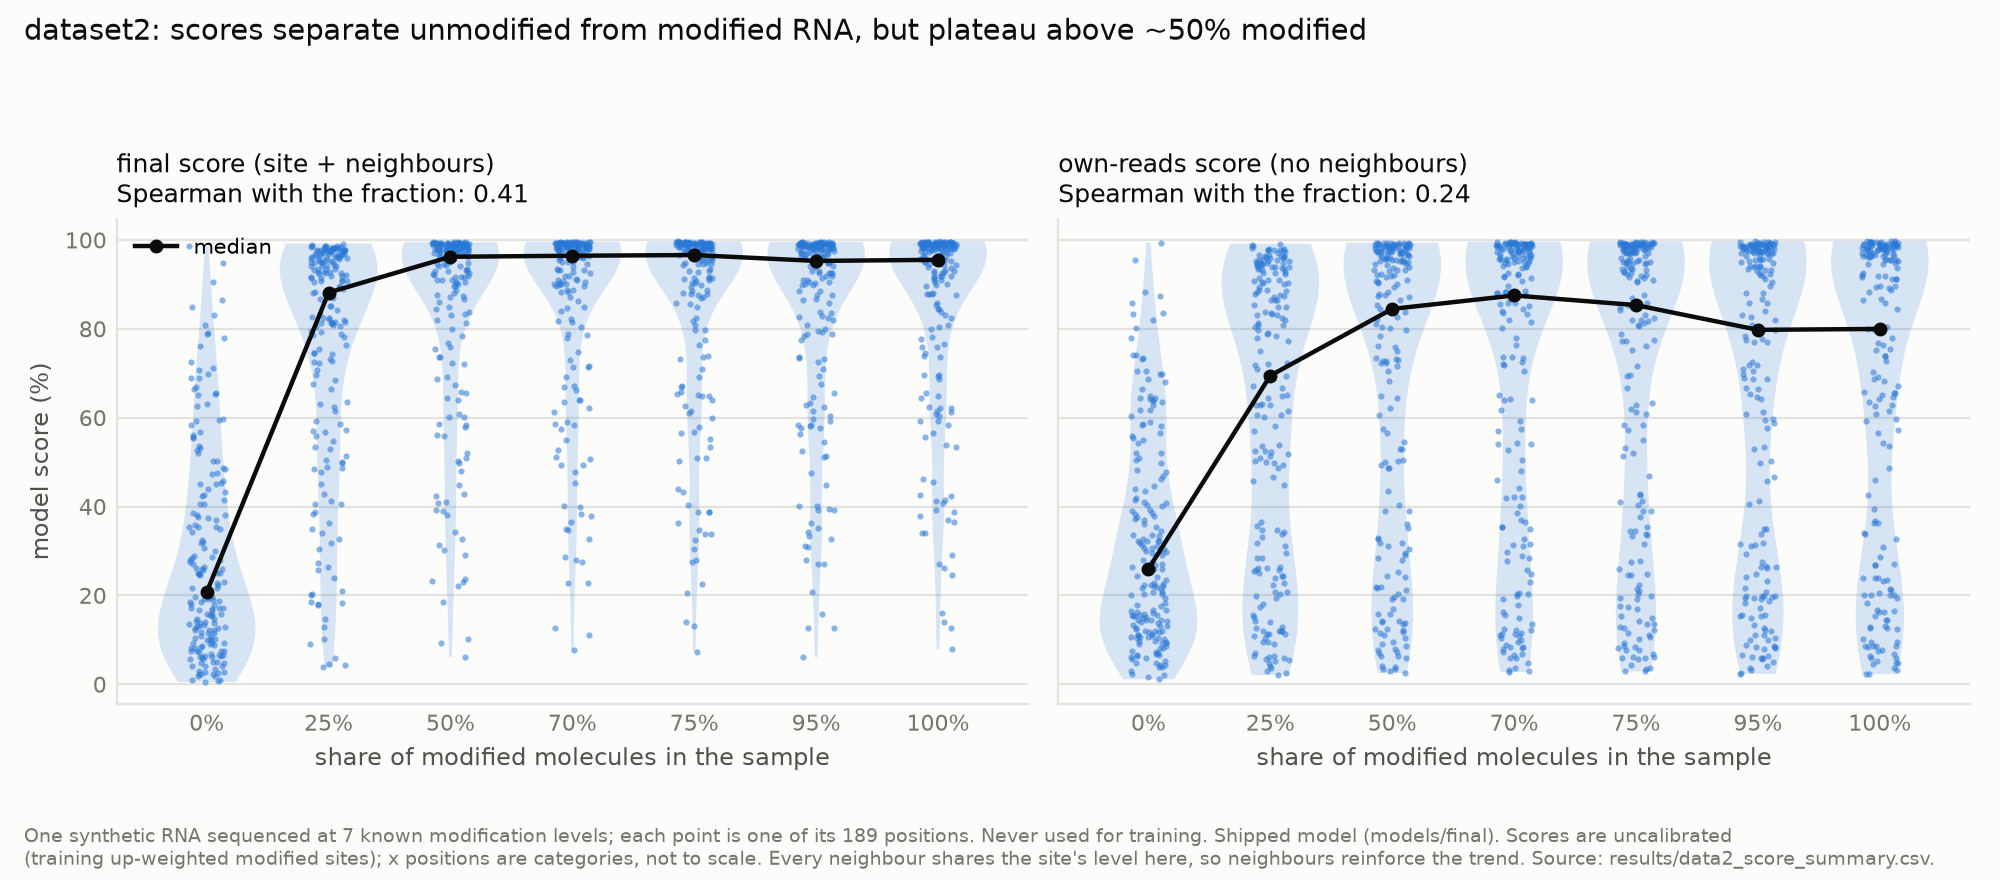
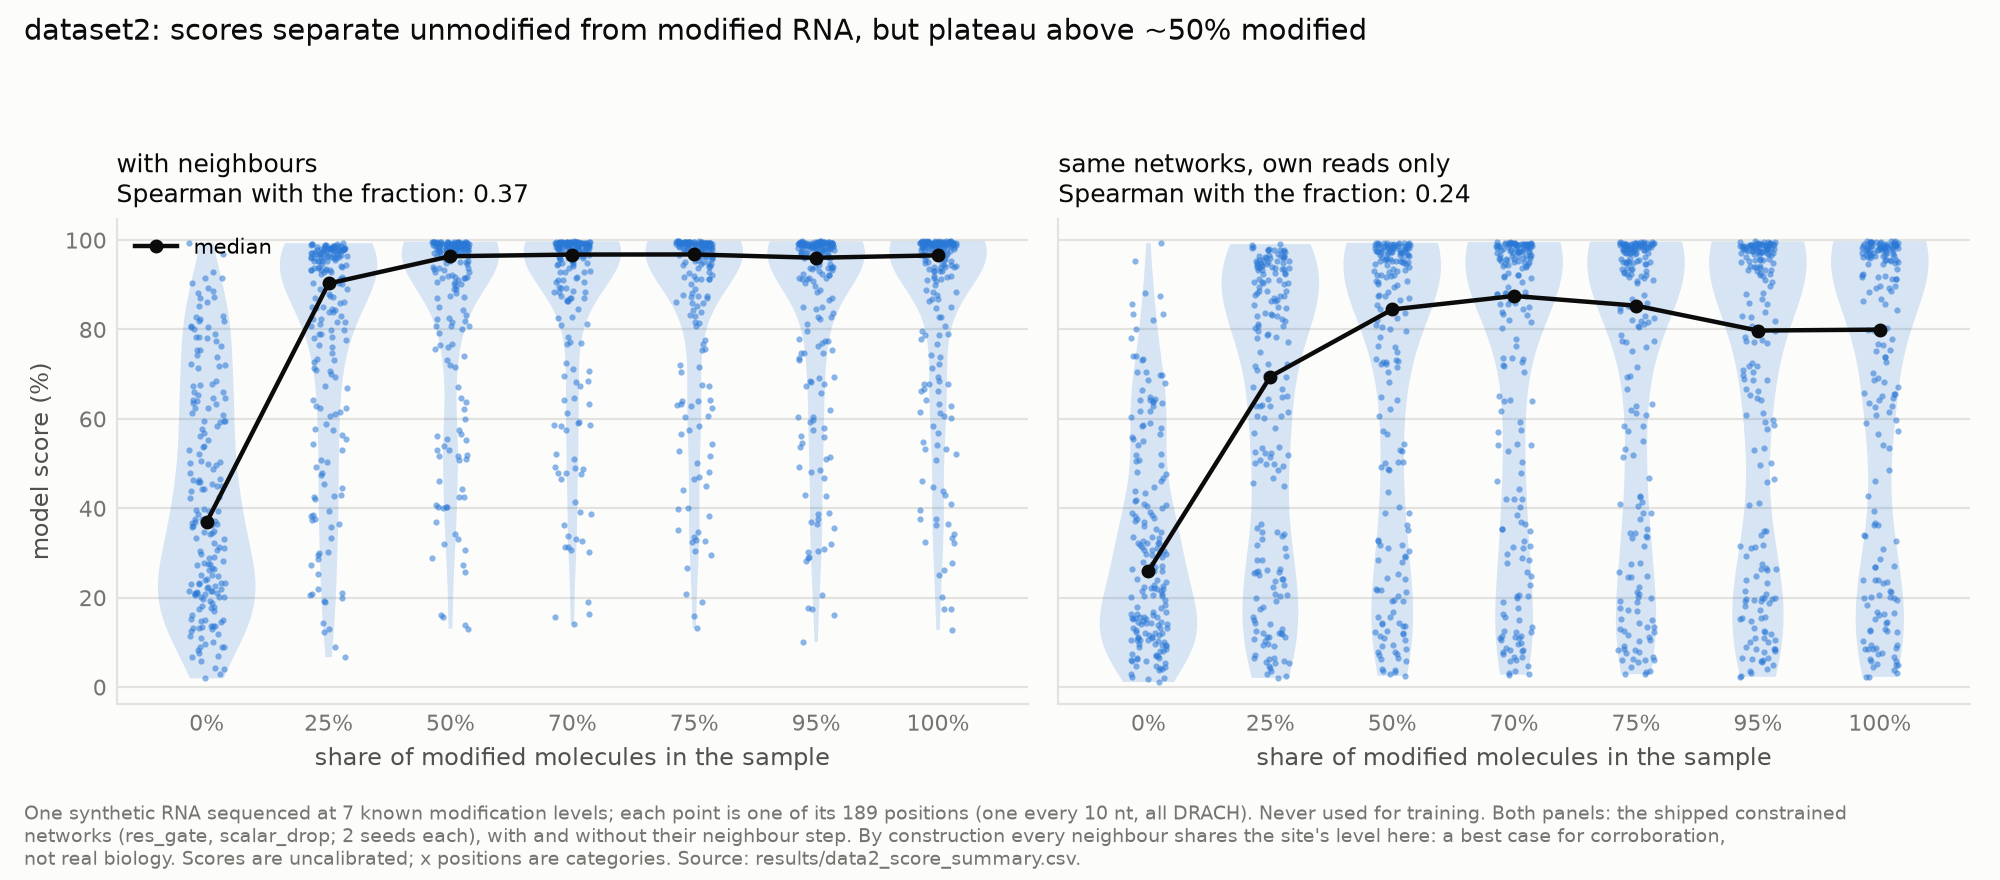
fig_data2_fractions: like-for-like (same constrained networks with vs without neighbours); why neighbours help in synthetic RNA, and the limits

diff --git a/analysis/newdata/data2_scores.py b/analysis/newdata/data2_scores.py
@@ -59,21 +59,27 @@ def main() -> None:
     out = out.merge(info, on=["transcript_id", "transcript_position"]).rename(columns={"label": "fraction"})
     own_cols = [c for c in out.columns if c.startswith("own_")]
     out["own"] = out[own_cols].mean(axis=1)
+    # Like for like: the SAME networks (the constrained designs, which have a separate
+    # read-only score) with their neighbour step. The full ensemble also averages in the
+    # two-head networks, which have no read-only score to compare against.
+    out["with_neighbours"] = out[[c.replace("own_", "raw_") for c in own_cols]].mean(axis=1)
     CACHE.parent.mkdir(parents=True, exist_ok=True)
     out.to_csv(CACHE, index=False)
 
-    summary = (out.assign(final_pct=100 * sigmoid(out.score_raw), own_pct=100 * sigmoid(out.own))
+    summary = (out.assign(final_pct=100 * sigmoid(out.with_neighbours), own_pct=100 * sigmoid(out.own))
                .groupby("fraction")
                .agg(sites=("score_raw", "size"), median_reads=("n_reads", "median"),
                     final_median=("final_pct", "median"), final_q25=("final_pct", lambda v: v.quantile(.25)),
                     final_q75=("final_pct", lambda v: v.quantile(.75)),
                     own_median=("own_pct", "median"), own_q25=("own_pct", lambda v: v.quantile(.25)),
                     own_q75=("own_pct", lambda v: v.quantile(.75))).reset_index())
-    rho_final = spearmanr(out.fraction, out.score_raw).statistic
+    rho_final = spearmanr(out.fraction, out.with_neighbours).statistic
     rho_own = spearmanr(out.fraction, out.own).statistic
+    rho_ensemble = spearmanr(out.fraction, out.score_raw).statistic
     summary.to_csv(RESULTS, index=False)
     print(summary.round(2).to_string(index=False))
-    print(f"Spearman (site score vs fraction): final {rho_final:.3f}, own reads {rho_own:.3f}")
+    print(f"Spearman (site score vs fraction): constrained networks with neighbours {rho_final:.3f}, same networks "
+          f"own reads {rho_own:.3f}, full shipped ensemble {rho_ensemble:.3f}")
     draw(out, rho_final, rho_own)
 
 
@@ -84,8 +90,8 @@ def draw(out: pd.DataFrame, rho_final: float, rho_own: float) -> None:
     fig, axes = plt.subplots(1, 2, figsize=(10, 4.4), dpi=200, sharey=True)
     fig.patch.set_facecolor(F.SURFACE)
     rng = np.random.default_rng(4262)
-    for ax, (col, title, rho) in zip(axes, (("score_raw", "final score (site + neighbours)", rho_final),
-                                            ("own", "own-reads score (no neighbours)", rho_own))):
+    for ax, (col, title, rho) in zip(axes, (("with_neighbours", "with neighbours", rho_final),
+                                            ("own", "same networks, own reads only", rho_own))):
         ax.set_facecolor(F.SURFACE)
         ax.grid(True, axis="y", color=F.GRID, linewidth=0.8)
         ax.set_axisbelow(True)
@@ -113,9 +119,10 @@ def draw(out: pd.DataFrame, rho_final: float, rho_own: float) -> None:
     fig.suptitle("dataset2: scores separate unmodified from modified RNA, but plateau above ~50% modified", x=0.012, ha="left",
                  color=F.INK, fontsize=10.5)
     fig.text(0.012, 0.01, "One synthetic RNA sequenced at 7 known modification levels; each point is one of its 189 "
-             "positions. Never used for training. Shipped model (models/final). Scores are uncalibrated\n(training "
-             "up-weighted modified sites); x positions are categories, not to scale. Every neighbour shares the site's "
-             "level here, so neighbours reinforce the trend. Source: results/data2_score_summary.csv.",
+             "positions (one every 10 nt, all DRACH). Never used for training. Both panels: the shipped constrained\n"
+             "networks (res_gate, scalar_drop; 2 seeds each), with and without their neighbour step. By construction "
+             "every neighbour shares the site's level here: a best case for corroboration,\nnot real biology. Scores "
+             "are uncalibrated; x positions are categories. Source: results/data2_score_summary.csv.",
              color=F.MUTED, fontsize=6.8, va="bottom")
     fig.tight_layout(rect=(0, 0.09, 1, 0.93))
     fig.savefig(FIGURE)

diff --git a/report/figures/README.md b/report/figures/README.md
@@ -335,33 +335,48 @@ may differ in other ways.
 **Shows:** the shipped model's scores on dataset2, the course's in-vitro
 series. One synthetic RNA was sequenced as seven samples made with a *known*
 share of modified molecules (0, 25, 50, 70, 75, 95, 100%), at the same 189
-positions. Each point is one position.
-- **Left:** the final score (site + neighbours).
-- **Right:** the own-reads score (no neighbours).
+positions (one every 10 nt, all DRACH motifs). Each point is one position.
+Both panels use the **same networks**: the shipped constrained designs
+(res_gate and scalar_drop, two seeds each).
+- **Left:** with their neighbour step.
+- **Right:** their own-reads score only.
 
 **Computed:** scored with `models/final` (numpy); never used for training.
-The final score is the six networks' mean raw output; the own-reads score
-is the constrained designs' read-only output. Both are shown on a 0-100%
-scale (sigmoid).
+Shown on a 0-100% scale (sigmoid of the raw output). The full shipped
+ensemble, which also includes the two-head networks, has no own-reads score
+to compare, so it is quoted in text only (Spearman 0.41).
 
 **Read:**
-- The scores **separate unmodified from modified RNA sharply**: final-score
-  median 21% at 0% vs 88% at 25% and ~96% from 50% up.
+- The scores **separate unmodified from modified RNA sharply**:
+  - with neighbours, median 37% at 0% vs 90% at 25% and ~96% from 50% up;
+  - telling 0% from any modified sample: ROC AUC 0.75 → 0.87 (res_gate)
+    and 0.77 → 0.90 (scalar_drop) when neighbours are added.
 - They **plateau from about 50%**: the model cannot tell a half-modified
-  site from a fully modified one.
-- The own-reads score even dips slightly at 95-100% (median 80% vs 87% at
-  70%).
-- Neighbours sharpen the trend (Spearman with the fraction 0.41 vs 0.24),
-  as expected: every neighbour here shares the site's level, so
-  corroboration reinforces it.
-- Within one sample, some positions score low regardless of level:
-  sequence context matters.
+  site from a fully modified one. The own-reads score even dips slightly at
+  95-100%.
+- **Why neighbours help in synthetic RNA.** Within one sample every position
+  has the same modification level by construction, and each site has 14
+  neighbours within 75 nt. So every neighbour is an independent extra
+  measurement of the same state, and pooling them reduces noise. That is the
+  mechanism learned on real RNA, in the setting where its assumption holds
+  perfectly. Spearman with the fraction: 0.37 vs 0.24.
+- **The neighbour step is outside its training range here.** dataset2 sites
+  have 600-1,200 reads, far above training, and the scalar messages use read
+  counts. That likely explains why neighbours also lift the 0% sample a
+  little (median 26% → 37%).
+- Within one sample, some positions score low regardless of level: sequence
+  context matters.
 
 **Don't claim:**
 - that the score measures the modification *fraction* (stoichiometry). It
   detects presence, then saturates.
-- that the neighbour effect is this large in real transcripts: here every
-  neighbour shares the site's level by construction.
+- that neighbours help this much in real transcripts. Here every neighbour
+  shares the site's level by construction; in real RNA neighbours share it
+  only partly (2.2× within 25 nt, fading by ~200 nt). This is a best-case
+  demonstration of the mechanism, not evidence about biology.
+- that the help comes only from separate sites. At 10 nt apart, neighbours'
+  signals may partly overlap with the site's own (DeepRM: ±10 nt). In real
+  data, neighbours within 20 nt added nothing (findings 12C).
 
 **Source:** `analysis/representation/results/data2_score_summary.csv`
 (`analysis/newdata/data2_scores.py`). Per-site scores are in
